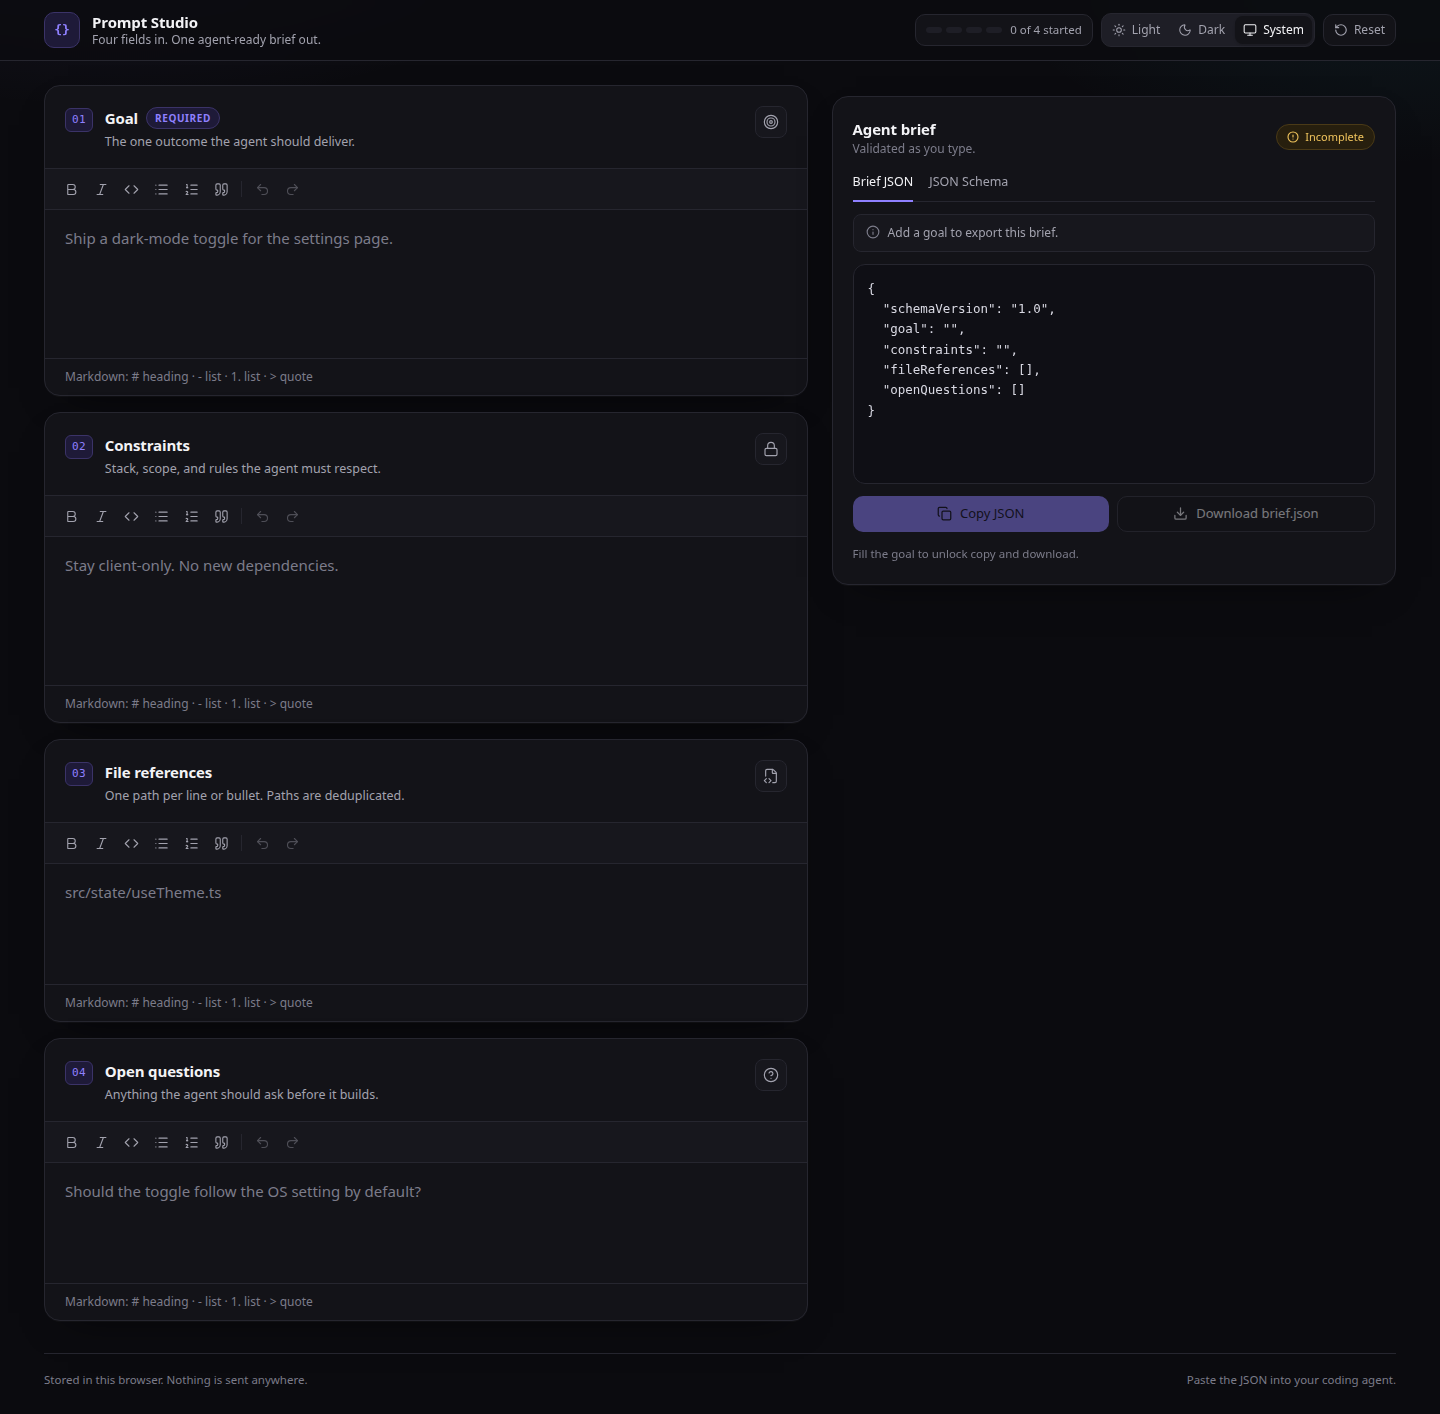
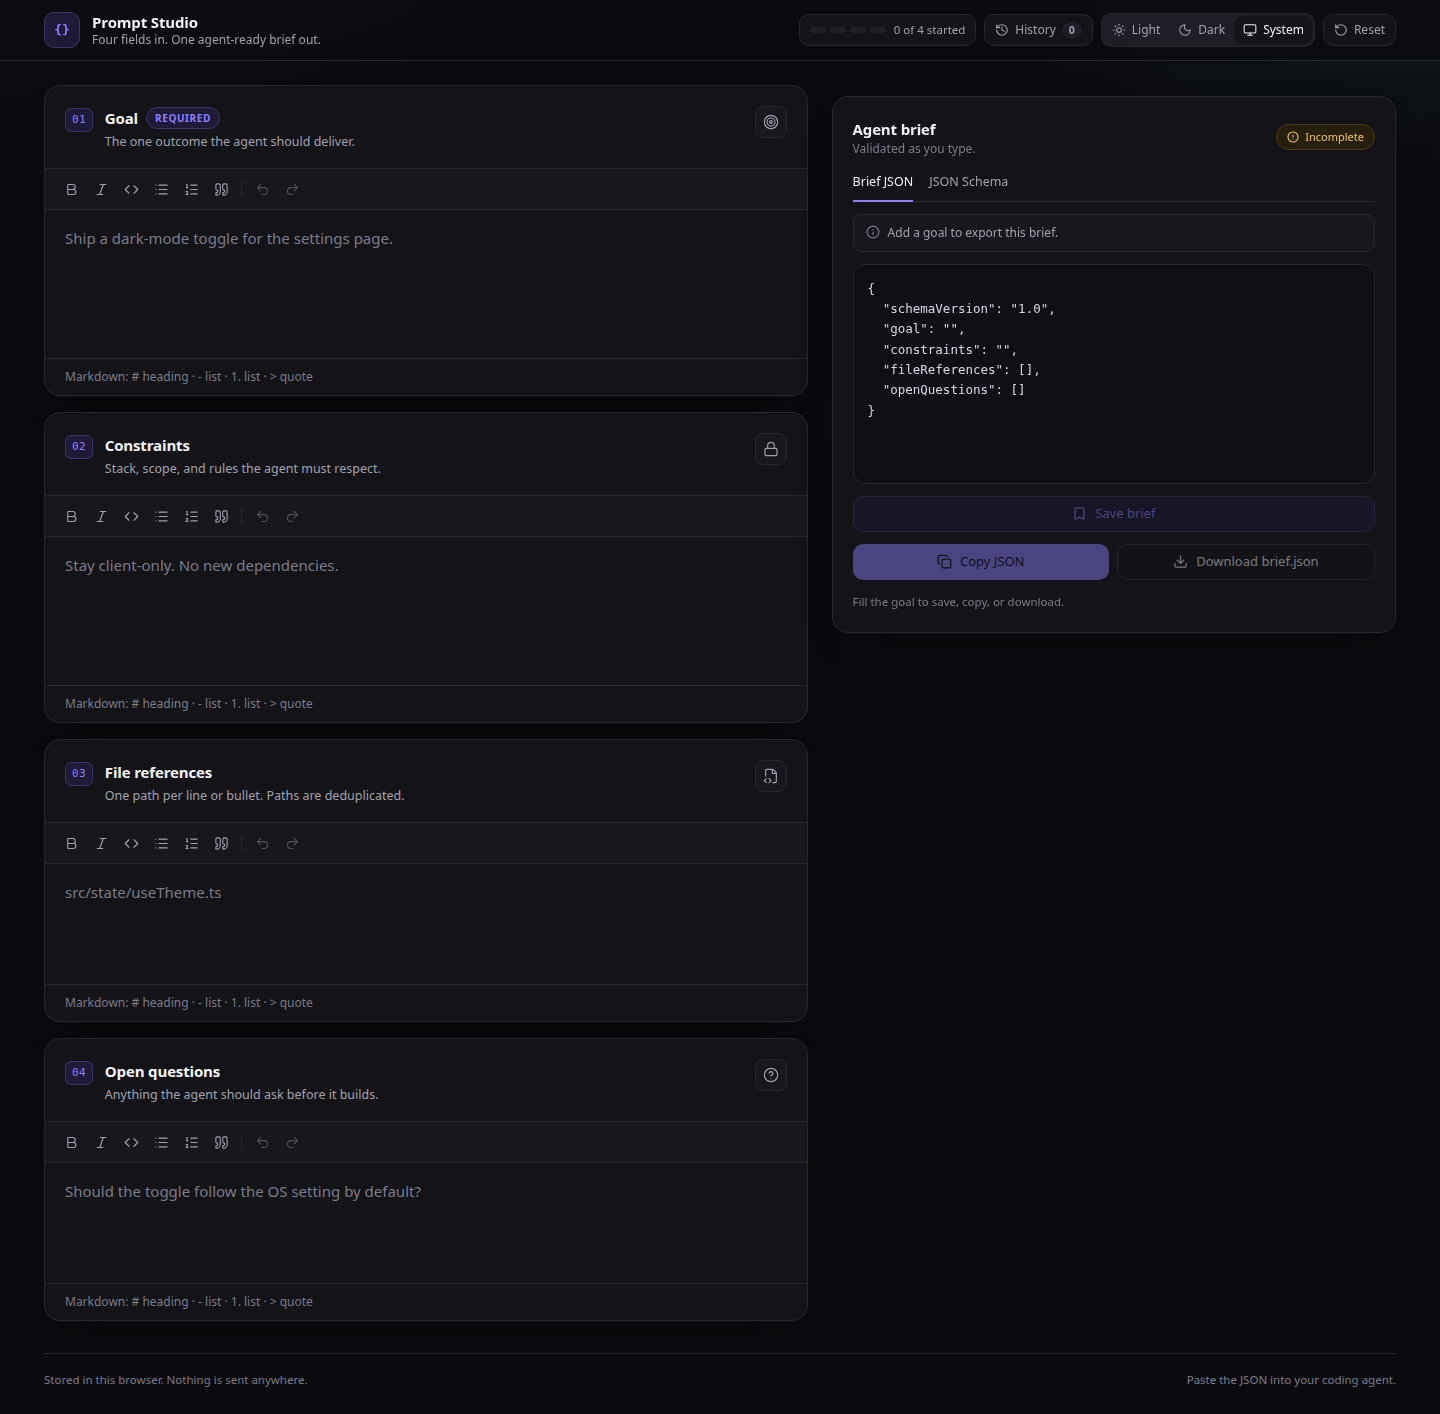
docs: document saved briefs and refresh screenshots

Changed region(s): [[0.5938, 0.3423, 0.7812, 0.4356], [0.8438, 0.3423, 0.9062, 0.4045], [0.7188, 0.0, 0.75, 0.0311]]

diff --git a/README.md b/README.md
@@ -8,12 +8,15 @@ Write a goal, constraints, file references, and open questions. Prompt Studio tu
 
 ![The editor in dark mode](docs/screenshots/desktop-dark-filled.png)
 
+![Saved briefs in the history drawer](docs/screenshots/desktop-light-history.png)
+
 ## What it does
 
 - Four rich-text fields share one editor: bold, italic, inline code, bullet and numbered lists, quotes, headings, undo, and redo. Typing `- `, `1. `, `# `, or `> ` starts the matching block.
 - The right panel updates on every keystroke with the JSON brief. Copy it or download `brief.json`.
 - The JSON Schema tab shows the draft 2020-12 schema the payload is validated against. Zod generates both from one declaration.
 - Light, dark, and system themes. The choice survives a reload.
+- Save the current brief to history. The drawer lists saved snapshots with a title, relative time, and field count. Load one back into the editor, delete it, or clear all. History keeps the newest 50 entries in this browser.
 - Drafts autosave to localStorage under `prompt-studio.draft.v1`. Nothing leaves the browser.
 
 ## Run it
@@ -58,35 +61,41 @@ Prose fields keep inline formatting as Markdown. List fields flatten each top-le
 ## How the data moves
 
 ```text
-FieldEditor [1] ← one TipTap instance per field
-├── onUpdate: editor.getJSON() [1a] ← ProseMirror document
-│   └── useBriefDraft.setField(id, doc) [1a1] ← replace one snapshot entry
-│       ├── debounce 300 ms [1a1a]
-│       │   └── localStorage["prompt-studio.draft.v1"] [1a1a1]
-│       └── docs state [1a1b]
-│           └── compileBrief(docs) [1a1b1] ← memoized per snapshot
-│               ├── docToMarkdown(goal, constraints) [1a1b1a]
-│               ├── docToItems(files).map(normalizePath) [1a1b1b]
-│               ├── dedupe file paths [1a1b1c]
-│               ├── BriefSchema.safeParse(candidate) [1a1b1d] ← zod contract
-│               └── JSON.stringify(value, null, 2) [1a1b1e]
-└── OutputPanel [1b]
-    ├── Brief JSON tab [1b1] ← compiled.json
-    ├── JSON Schema tab [1b2] ← z.toJSONSchema(BriefSchema)
-    ├── Copy JSON [1b3] ← clipboard, disabled until valid
-    └── Download brief.json [1b4] ← Blob URL
+FieldEditor.onUpdate [1] ← one TipTap instance per field
+├── useBriefDraft.setField [1a] ← replace one snapshot entry
+│   ├── docs snapshot [1a1]
+│   │   ├── debounce 300 ms → localStorage draft [1a1a]
+│   │   └── compileBrief(docs) [1a1b] ← memoized per snapshot
+│   │       ├── docToMarkdown(goal, constraints) [1a1b1]
+│   │       ├── docToItems(files).map(normalizePath) [1a1b2]
+│   │       ├── dedupe file paths [1a1b3]
+│   │       ├── BriefSchema.safeParse(candidate) [1a1b4] ← zod contract
+│   │       └── JSON.stringify(value, null, 2) [1a1b5]
+│   └── replace(docs) on history load [1a2] ← remounts editors
+├── OutputPanel [1b]
+│   ├── Save brief [1b1] → useHistory.save [1b1a]
+│   │   ├── addEntry + newest duplicate check [1b1a1]
+│   │   ├── localStorage history write first [1b1a2]
+│   │   └── setEntries after a successful write [1b1a3]
+│   ├── Copy JSON [1b2] ← disabled until valid
+│   ├── Download brief.json [1b3]
+│   └── JSON Schema tab [1b4] ← z.toJSONSchema(BriefSchema)
+└── HistoryDrawer [1c]
+    ├── Load → replace(docs) + close [1c1]
+    └── Delete or clear → persist then setEntries [1c2]
 ```
 
-The same `Brief` type comes from `BriefSchema`, so the runtime validator and the displayed schema cannot drift. `src/brief/compile.ts` is the only place that assembles the payload.
+The same `Brief` type comes from `BriefSchema`, so the runtime validator and the displayed schema cannot drift. `src/brief/compile.ts` is the only place that assembles the payload. History stores the four ProseMirror documents, so loading a saved brief rebuilds the JSON from the same compiler instead of from a second stored format.
 
 ## Project layout
 
 ```text
 src/
-├── brief/          contract, registry, markdown serializer, compiler, tests
+├── brief/          contract, docs model, registry, markdown serializer, compiler, tests
+├── history/        pure entries, titles, relative time, tests
 ├── editor/         TipTap field, toolbar, action table
-├── state/          draft persistence and theme hooks
-├── ui/             form cards, output panel, theme toggle, icons, toast
+├── state/          draft, history, and theme hooks
+├── ui/             form cards, output panel, history drawer, theme toggle, toast
 ├── App.tsx         header, grid, reset, completion meter
 └── styles.css      design tokens and editor typography
 ```
@@ -97,13 +106,15 @@ Colors and spacing live in `src/styles.css` as CSS variables mapped into Tailwin
 
 The layout is a two-column workspace at 1024 px and wider, and a single column below that. Every control is a real button or a labelled editor, the toolbar exposes `aria-pressed`, the output tabs follow the WAI-ARIA tabs pattern, and validation messages sit in live regions.
 
+`src/brief/` and `src/history/` are pure. They import neither React nor the DOM, so both can move into a workspace package without edits. `src/state/` holds the React adapters, and the draft and history keys have separate writers.
+
 ## Stitch MCP
 
 The app was built without Stitch because no Stitch MCP server or API key was configured in this environment. `docs/stitch.md` has the setup commands, the OpenCode config, and the prompt to regenerate this screen in Stitch. The four-field layout, tokens, and components are isolated, so a Stitch design can replace the visual layer without touching the brief pipeline.
 
 ## Verification
 
-`npm test` covers the serializer, item flattening, path normalization, schema shape, parse failures, and issue mapping. `scripts/verify-ui.cjs` drives the real app in Chrome through 27 checks: typing, formatting, deduplication, copy, download, schema tab, reload persistence, reset, and dark and light layouts. Start the dev server first, then run:
+`npm test` covers the serializer, item flattening, path normalization, schema shape, parse failures, issue mapping, and the history model. `scripts/verify-ui.cjs` drives the real app in Chrome through 38 checks: typing, formatting, deduplication, save, duplicate save, load, delete, copy, download, schema tab, reload persistence, reset, and dark and light layouts. Start the dev server first, then run:
 
 ```sh
 npm run verify:ui

diff --git a/docs/stitch.md b/docs/stitch.md
@@ -57,7 +57,7 @@ Paste this prompt after the server connects:
 ```text
 Design a desktop web app called Prompt Studio for composing a structured brief for a coding agent. Dark and light themes.
 
-Layout: a sticky top bar with a small braces logo, the name Prompt Studio, the line "Four fields in. One agent-ready brief out.", a four-segment completion meter, a light/dark/system theme control, and a Reset button. Below it, two columns. The left column is a stack of four cards, numbered 01 to 04: Goal, Constraints, File references, Open questions. Each card has an icon, a one-line hint, a rich-text toolbar with bold, italic, inline code, bullet list, numbered list, quote, undo, and redo, a roomy editor, and a footer with a Markdown shortcut hint. The right column is a sticky output panel titled "Agent brief" with a Valid or Incomplete badge, two tabs named "Brief JSON" and "JSON Schema", a monospace code block, and two buttons, "Copy JSON" and "Download brief.json".
+Layout: a sticky top bar with a small braces logo, the name Prompt Studio, the line "Four fields in. One agent-ready brief out.", a four-segment completion meter, a History button with a saved count, a light/dark/system theme control, and a Reset button. Below it, two columns. The left column is a stack of four cards, numbered 01 to 04: Goal, Constraints, File references, Open questions. Each card has an icon, a one-line hint, a rich-text toolbar with bold, italic, inline code, bullet list, numbered list, quote, undo, and redo, a roomy editor, and a footer with a Markdown shortcut hint. The right column is a sticky output panel titled "Agent brief" with a Valid or Incomplete badge, two tabs named "Brief JSON" and "JSON Schema", a monospace code block, a full-width "Save brief" button, and a row with "Copy JSON" and "Download brief.json". Add a right-side history drawer that lists saved briefs, each with a title, saved time, field count, Load, and Delete, plus a Clear all action and an empty state.
 
 Style: neutral slate and near-black surfaces, a violet accent, 16 px card radii, soft shadows, crisp 12 to 15 px type, and a sparse layout that feels like a developer tool rather than a form. Keep both themes legible and quiet.
 ```
